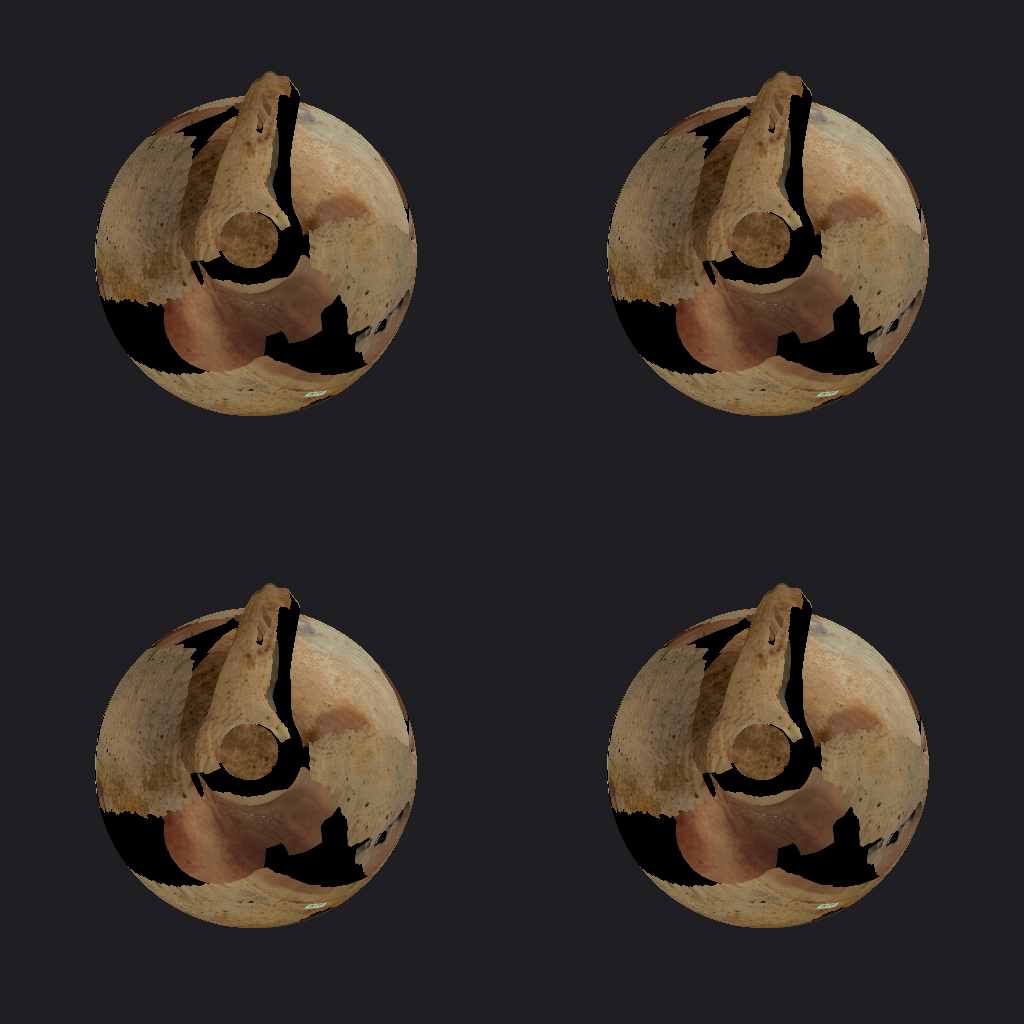
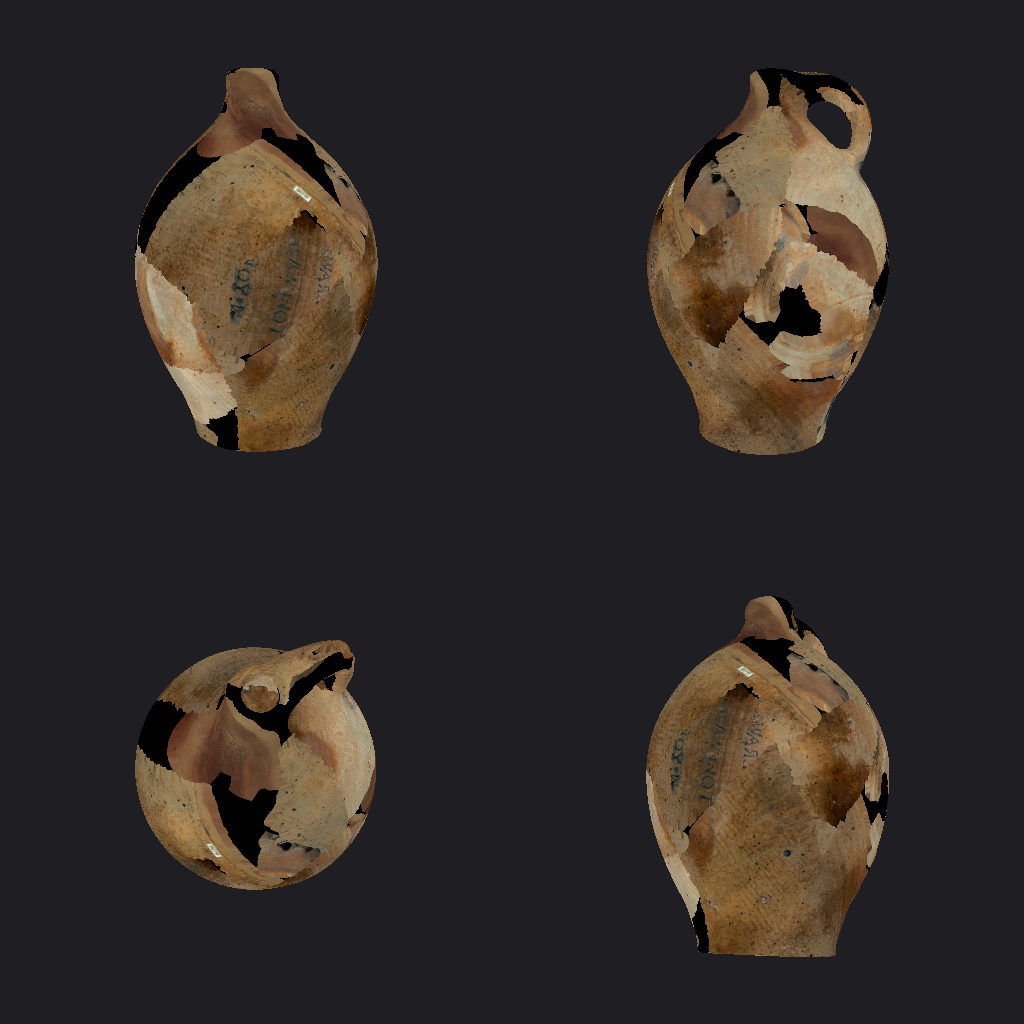
i hate chat bots

diff --git a/loras/spatial_engine/model-vision.py b/loras/spatial_engine/model-vision.py
@@ -5,6 +5,11 @@ import platform
 import json
 from pathlib import Path
 
+# Clear any legacy or conflicting PyOpenGL/pyrender configuration keys instantly
+for env_key in ["PYOPENGL_PLATFORM", "PYRENDER_BACKEND", "PYOPENGL_FORCE_NO_EGL"]:
+    if env_key in os.environ:
+        del os.environ[env_key]
+
 import torch
 import trimesh
 import numpy as np
@@ -53,7 +58,7 @@ def compute_scene_bounds(scene):
     return center, extents, radius
 
 def build_camera_transform(center, distance, pitch_deg, yaw_deg):
-    """Computes look-at projection matrices using pitch and yaw angles."""
+    """Computes layout look-at camera tracking matrices matching Blender metrics."""
     pitch = np.radians(pitch_deg)
     yaw = np.radians(yaw_deg)
 
@@ -62,25 +67,87 @@ def build_camera_transform(center, distance, pitch_deg, yaw_deg):
     dz = distance * np.sin(pitch)
 
     cam_pos = center + np.array([dx, dy, dz])
-    z = cam_pos - center
-    z /= np.linalg.norm(z)
+    
+    forward = center - cam_pos
+    f_norm = np.linalg.norm(forward)
+    if f_norm < 1e-6:
+        forward = np.array([0.0, -1.0, 0.0])
+    else:
+        forward = forward / f_norm
 
-    up = np.array([0.0, 0.0, 1.0])
-    if abs(np.dot(z, up)) > 0.99:
-        up = np.array([0.0, 1.0, 0.0])
+    world_up = np.array([0.0, 0.0, 1.0])
+    right = np.cross(forward, world_up)
+    r_norm = np.linalg.norm(right)
+    
+    if r_norm < 1e-6:
+        alternative_up = np.array([1.0, 0.0, 0.0])
+        right = np.cross(forward, alternative_up)
+        right /= max(np.linalg.norm(right), 1e-6)
+    else:
+        right = right / r_norm
 
-    x = np.cross(up, z)
-    x /= np.linalg.norm(x)
-    y = np.cross(z, x)
+    true_up = np.cross(right, forward)
+    true_up /= max(np.linalg.norm(true_up), 1e-6)
 
     pose = np.eye(4)
-    pose[:3, 0] = x
-    pose[:3, 1] = y
-    pose[:3, 2] = z
+    pose[:3, 0] = right
+    pose[:3, 1] = true_up
+    pose[:3, 2] = -forward
     pose[:3, 3] = cam_pos
     return pose
 
-# ==================== HARDWARE-INDEPENDENT SOFTWARE RASTERIZER ====================
+
+def build_view_pose(center, distance, pitch_deg, yaw_deg):
+    """Computes camera look-at transformation matrix targets using yaw and pitch.
+    
+    Coordinates map pitch and yaw directly to match standard Blender tracking metrics.
+    """
+    # Map coordinates to align with standard pitch/yaw angle frames
+    pitch = np.radians(pitch_deg)
+    yaw = np.radians(yaw_deg)
+
+    # Calculate spherical offsets relative to target scene center bounding boxes
+    dx = distance * np.cos(pitch) * np.sin(yaw)
+    dy = -distance * np.cos(pitch) * np.cos(yaw)
+    dz = distance * np.sin(pitch)
+
+    camera_position = center + np.array([dx, dy, dz])
+    
+    # Compute look-at forward vector (-Z is forward in camera space)
+    forward = center - camera_position
+    f_norm = np.linalg.norm(forward)
+    if f_norm < 1e-6:
+        forward = np.array([0.0, -1.0, 0.0])
+    else:
+        forward = forward / f_norm
+
+    # Calculate right vector using standard world-up vector (+Z is world-up)
+    world_up = np.array([0.0, 0.0, 1.0])
+    right = np.cross(forward, world_up)
+    r_norm = np.linalg.norm(right)
+    
+    if r_norm < 1e-6:
+        alternative_up = np.array([1.0, 0.0, 0.0])
+        right = np.cross(forward, alternative_up)
+        right /= max(np.linalg.norm(right), 1e-6)
+    else:
+        right = right / r_norm
+
+    # Re-orthogonalize the true camera up vector
+    true_up = np.cross(right, forward)
+    true_up /= max(np.linalg.norm(true_up), 1e-6)
+
+    # Assemble transformation matrix
+    pose = np.eye(4)
+    pose[:3, 0] = right
+    pose[:3, 1] = true_up
+    pose[:3, 2] = -forward  # Camera looks down its native -Z axis
+    pose[:3, 3] = camera_position
+
+    return pose
+
+
+
 def render_model_to_2d(file_path: str, output_image_path: str = "model_preview.png"):
     if not os.path.exists(file_path):
         raise FileNotFoundError(f"Asset target not found: {file_path}")
@@ -93,29 +160,33 @@ def render_model_to_2d(file_path: str, output_image_path: str = "model_preview.p
     
     print(f"📐 Scene Center: {np.round(center, 3)} | Calculated Radius: {round(radius, 3)}")
 
-    # Adjust perspective constraints cleanly
+    # Keep a non-zero fill baseline bounding track distance factor
     distance = radius * 2.5
 
+    # Direct port of Blender angle vectors tracking metrics
     view_angles = [
-        {"name": "Front Elevated", "pitch": 25,  "yaw": 35},
-        {"name": "Side Profile",   "pitch": 15,  "yaw": 115},
-        {"name": "High Angle Top", "pitch": 65,  "yaw": 45},
-        {"name": "Low Pitch Angle","pitch": -10, "yaw": 20},
+        {"name": "Front Elevated", "pitch": 8,   "yaw": 0},
+        {"name": "Side Profile",   "pitch": 5,   "yaw": 90},
+        {"name": "High Angle Top", "pitch": 75,  "yaw": 45},
+        {"name": "Low Pitch Angle", "pitch": -12, "yaw": 35},
     ]
 
     captured_images = []
 
     for view in view_angles:
         try:
-            # Build look-at matrix relative to bounding centers
-            cam_pose = build_camera_transform(center, distance, view["pitch"], view["yaw"])
+            # Re-initialize a clean perspective transformation frame copy
+            view_scene = trimesh_scene.copy()
             
-            # Apply camera transforms directly to camera entity configurations
-            trimesh_scene.camera.transform = cam_pose
-            trimesh_scene.camera.resolution = [512, 512]
+            # Build look-at matrix relative to bounding centers
+            cam_pose = build_view_pose(center, distance, view["pitch"], view["yaw"])
+            
+            # Direct scene-graph property update for the active camera node
+            view_scene.camera_transform = cam_pose
+            view_scene.camera.resolution = [512, 512]
             
             # Pure software vector-to-raster dump (completely bypasses PyOpenGL and driver checks)
-            png_bytes = trimesh_scene.save_image(background=[30, 30, 35, 255])
+            png_bytes = view_scene.save_image(background=[30, 30, 35, 255])
             
             from io import BytesIO
             img = Image.open(BytesIO(png_bytes)).convert("RGB")